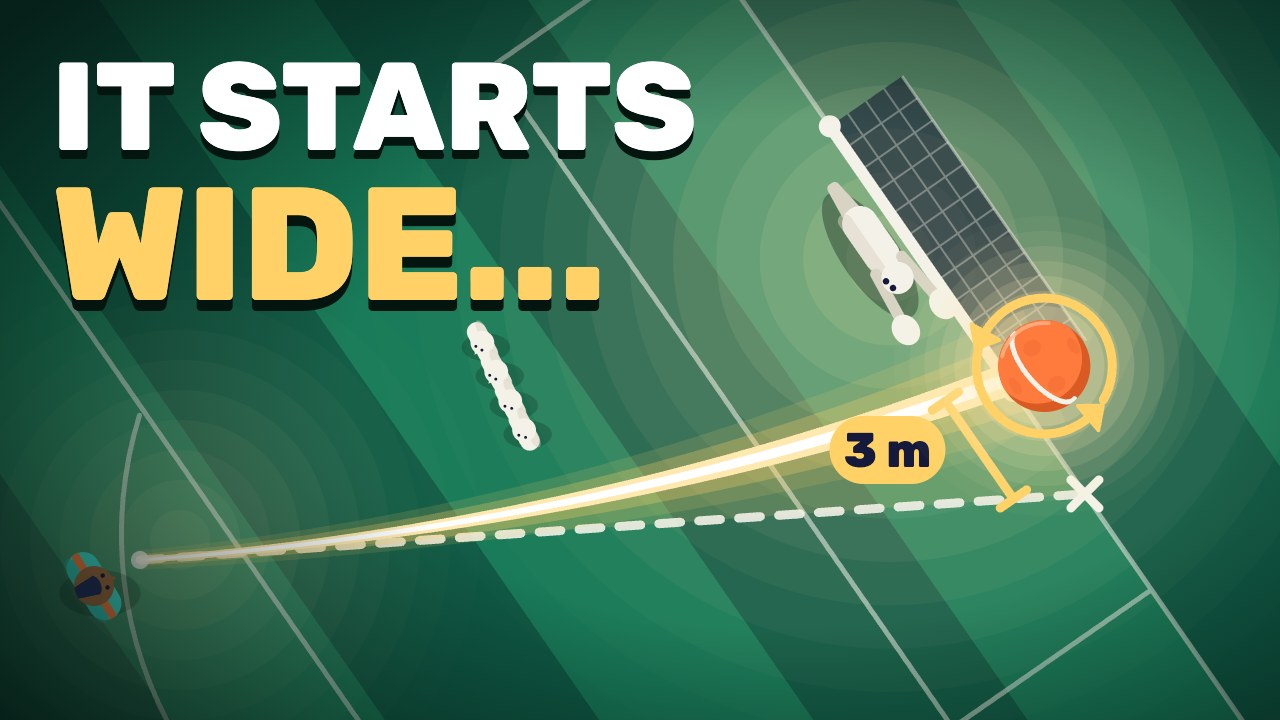
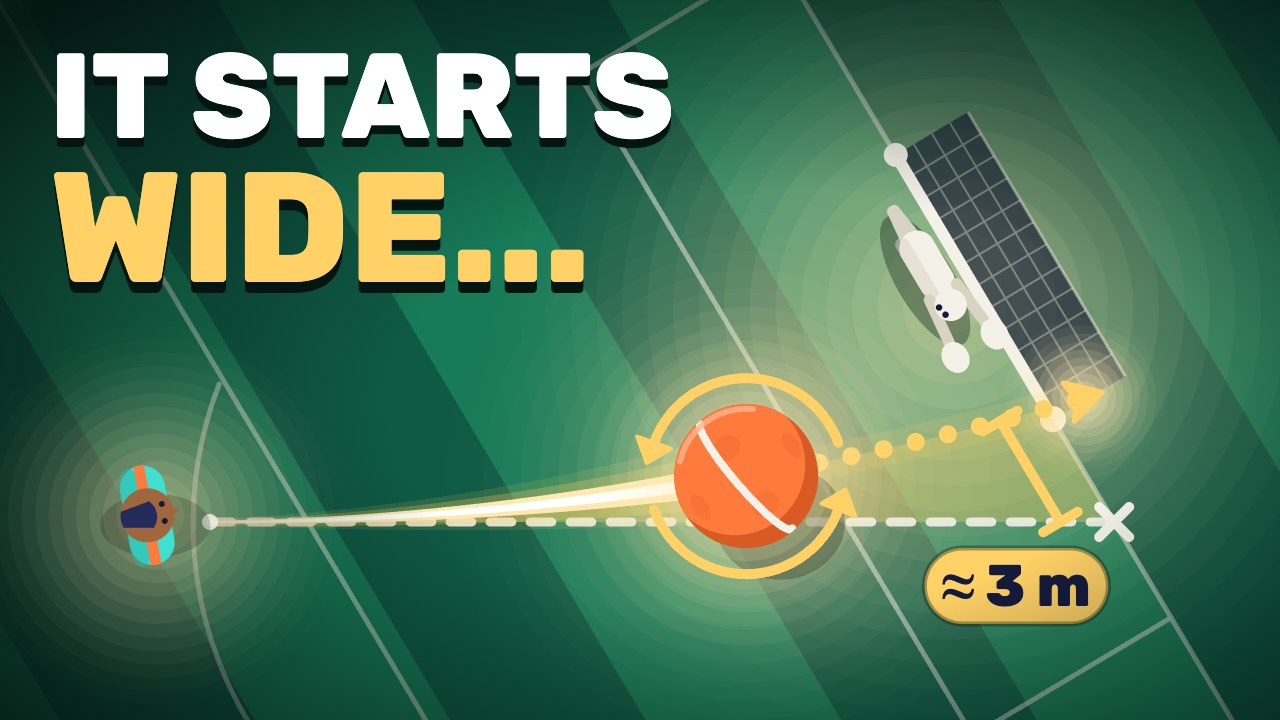
Three Spins page: thumbnail set 1 (The bend)
Adds or updates thumbnail set 1 of 5 ("The bend") in the "Thumbnail sets"
section: 3 thumbnail(s) ready (A B C), 1280x720, drawn in code, made to be
tested together with YouTube's Test & Compare.

Claude-Session: https://claude.ai/code/session_01UobyK5EcybPiCyoGMgCbjq

diff --git a/videos/three-spins/index.html b/videos/three-spins/index.html
@@ -64,8 +64,9 @@
   <p class="small">Sets of three thumbnails for this video. Each set is made for YouTube's "Test &amp; Compare", which tries three thumbnails at once. Tap a picture to see it big.</p>
   <h3>Set 1: The bend</h3>
     <div class="thumbs">
-      <figure><a href="thumbs/set1-a.jpg"><img src="thumbs/set1-a.jpg" width="1280" height="720" loading="lazy" alt="Set 1 A: WHY IT BENDS"></a><figcaption><b>A.</b> A curler bends over the wall into the top corner.</figcaption></figure>
-      <figure><a href="thumbs/set1-b.jpg"><img src="thumbs/set1-b.jpg" width="1280" height="720" loading="lazy" alt="Set 1 B: IT STARTS WIDE..."></a><figcaption><b>B.</b> Seen from above: the ball starts wide, then bends back in.</figcaption></figure>
+      <figure><a href="thumbs/set1-a.jpg"><img src="thumbs/set1-a.jpg" width="1280" height="720" loading="lazy" alt="Set 1 A: WHY IT BENDS"></a><figcaption><b>A.</b> A big spinning ball curls around the wall and past Chalk.</figcaption></figure>
+      <figure><a href="thumbs/set1-b.jpg"><img src="thumbs/set1-b.jpg" width="1280" height="720" loading="lazy" alt="Set 1 B: IT STARTS WIDE..."></a><figcaption><b>B.</b> Seen from above, the curler starts wide and bends into the goal.</figcaption></figure>
+      <figure><a href="thumbs/set1-c.jpg"><img src="thumbs/set1-c.jpg" width="1280" height="720" loading="lazy" alt="Set 1 C: WHERE IS IT GOING?!"></a><figcaption><b>C.</b> Chalk&#x27;s view: the ball swings wide, then curls into the corner.</figcaption></figure>
     </div>
 </section>
 </main>
